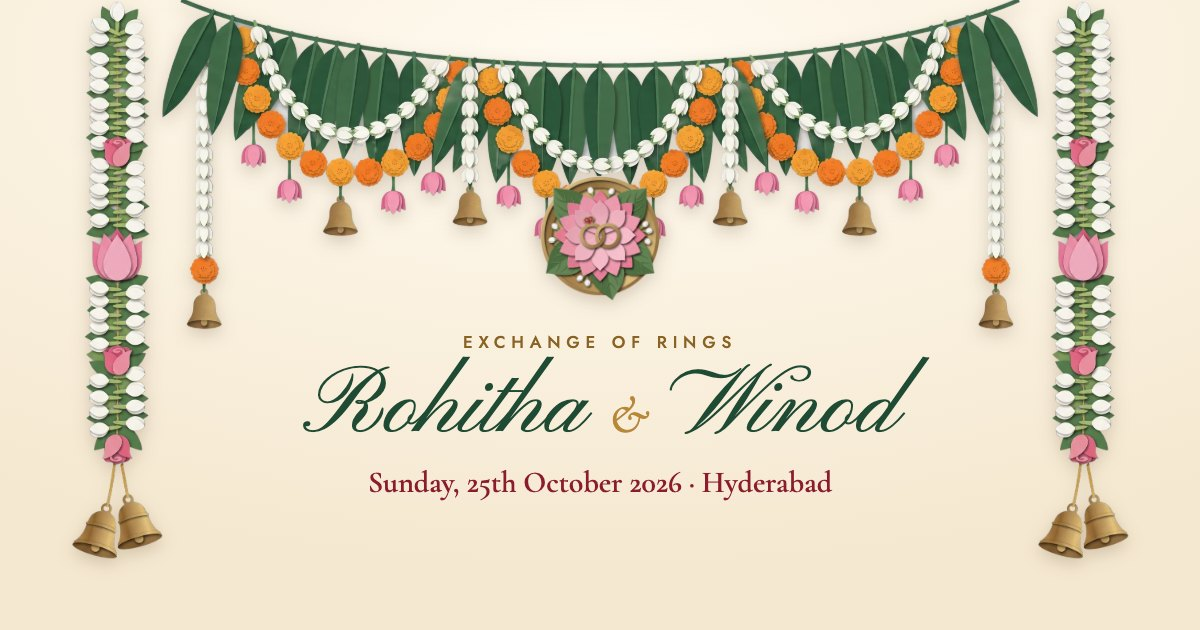
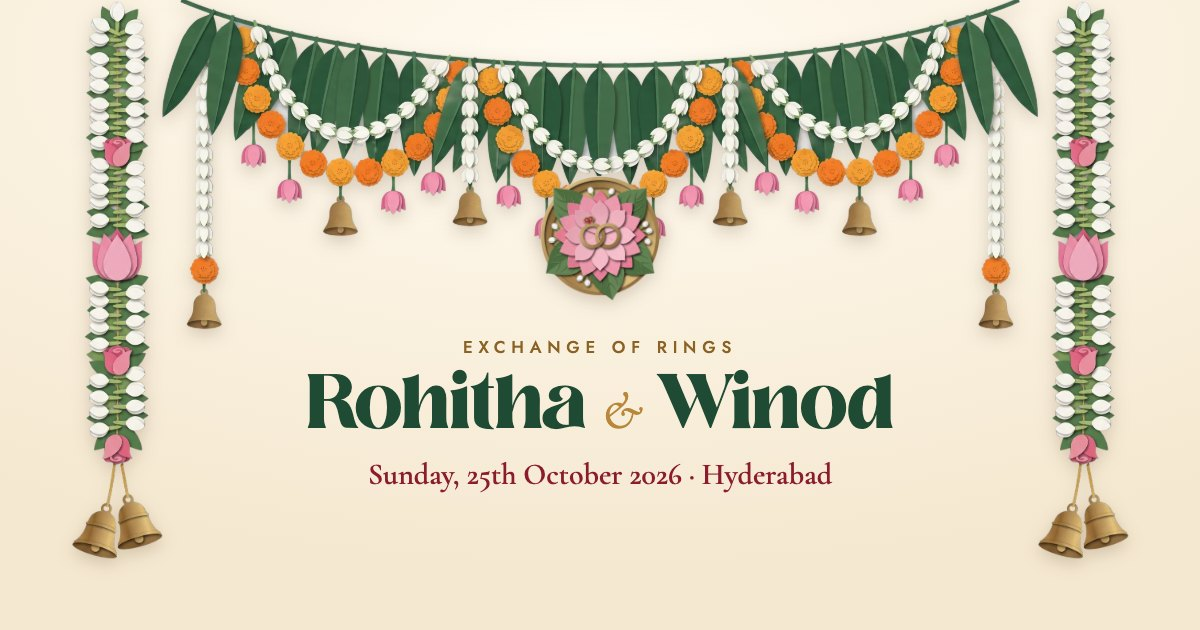
Use Losta Masta for every instance of the names, refresh preview card, version asset URLs

Changed region(s): [[0.2467, 0.5127, 0.7708, 0.6937], [0.3083, 0.7238, 0.7092, 0.7841]]

diff --git a/index.html b/index.html
@@ -10,7 +10,7 @@
   <meta property="og:title" content="Rohitha &amp; Winod | Engagement Invitation">
   <meta property="og:description" content="Sunday, 25th October 2026. Muhurtham 11:19 AM. Madhura Banquet Hall, Manikonda, Hyderabad.">
   <meta property="og:url" content="https://rohitha-winod.github.io/">
-  <meta property="og:image" content="https://rohitha-winod.github.io/assets/share.jpg">
+  <meta property="og:image" content="https://rohitha-winod.github.io/assets/share.jpg?v=3">
   <meta property="og:image:width" content="1200">
   <meta property="og:image:height" content="630">
   <meta name="twitter:card" content="summary_large_image">
@@ -20,8 +20,8 @@
   <link rel="preconnect" href="https://fonts.gstatic.com" crossorigin>
   <link href="https://fonts.googleapis.com/css2?family=Cormorant+Garamond:ital,wght@0,400;0,500;0,600;1,400;1,500&family=Jost:wght@400;500&family=Pinyon+Script&display=swap" rel="stylesheet">
   <link rel="preload" as="image" href="assets/hands.webp" type="image/webp">
-  <link rel="preload" as="font" href="assets/fonts/LostaMasta-Medium.woff2" type="font/woff2" crossorigin>
-  <link rel="stylesheet" href="styles.css">
+  <link rel="preload" as="font" href="assets/fonts/LostaMasta-Medium.woff2?v=3" type="font/woff2" crossorigin>
+  <link rel="stylesheet" href="styles.css?v=3">
 </head>
 <body>
   <div class="grain" aria-hidden="true"></div>
@@ -157,7 +157,7 @@
   </footer>
 
   <!-- Background music: browsers only allow sound after a tap, so it starts on the first tap or from this button -->
-  <audio id="bgm" src="assets/music.m4a" loop preload="none"></audio>
+  <audio id="bgm" src="assets/music.m4a?v=3" loop preload="none"></audio>
   <button class="music" id="music-toggle" type="button" aria-pressed="false" aria-label="Play music">
     <svg class="music__note" viewBox="0 0 24 24" aria-hidden="true"><path d="M9 18V5l11-2v13"/><circle cx="6" cy="18" r="3"/><circle cx="17" cy="16" r="3"/></svg>
     <span class="music__bars" aria-hidden="true"><i></i><i></i><i></i></span>
@@ -166,6 +166,6 @@
   <script src="https://cdnjs.cloudflare.com/ajax/libs/gsap/3.12.5/gsap.min.js" defer></script>
   <script src="https://cdnjs.cloudflare.com/ajax/libs/gsap/3.12.5/ScrollTrigger.min.js" defer></script>
   <script src="https://unpkg.com/lenis@1.1.14/dist/lenis.min.js" defer></script>
-  <script src="script.js" defer></script>
+  <script src="script.js?v=3" defer></script>
 </body>
 </html>

diff --git a/styles.css b/styles.css
@@ -4,7 +4,7 @@
 /* Losta Masta Medium, self hosted, subset to basic Latin (assets/fonts) */
 @font-face {
   font-family: "Losta Masta";
-  src: url("assets/fonts/LostaMasta-Medium.woff2") format("woff2");
+  src: url("assets/fonts/LostaMasta-Medium.woff2?v=3") format("woff2");
   font-weight: 500;
   font-style: normal;
   font-display: swap;
@@ -465,8 +465,8 @@ a { color: inherit; }
   text-align: center;
   padding: 44px var(--pad) calc(44px + env(safe-area-inset-bottom));
 }
-.footer__names { font-family: var(--script); font-size: clamp(2.4rem, 1.9rem + 2.4vw, 3.6rem); line-height: 1.2; }
-.footer__names span { font-family: var(--serif); font-style: italic; font-size: .5em; color: var(--gold-soft); }
+.footer__names { font-family: var(--display); font-weight: 500; font-size: clamp(2rem, 1.6rem + 2vw, 3rem); line-height: 1.15; letter-spacing: -.005em; }
+.footer__names span { font-family: var(--serif); font-style: italic; font-weight: 400; font-size: .7em; color: var(--gold-soft); }
 .footer__date { font-family: var(--sans); font-size: .72rem; font-weight: 500; letter-spacing: .4em; color: var(--gold-soft); margin: 8px -.4em 0 0; }
 
 /* ---------- MUSIC TOGGLE ---------- */
